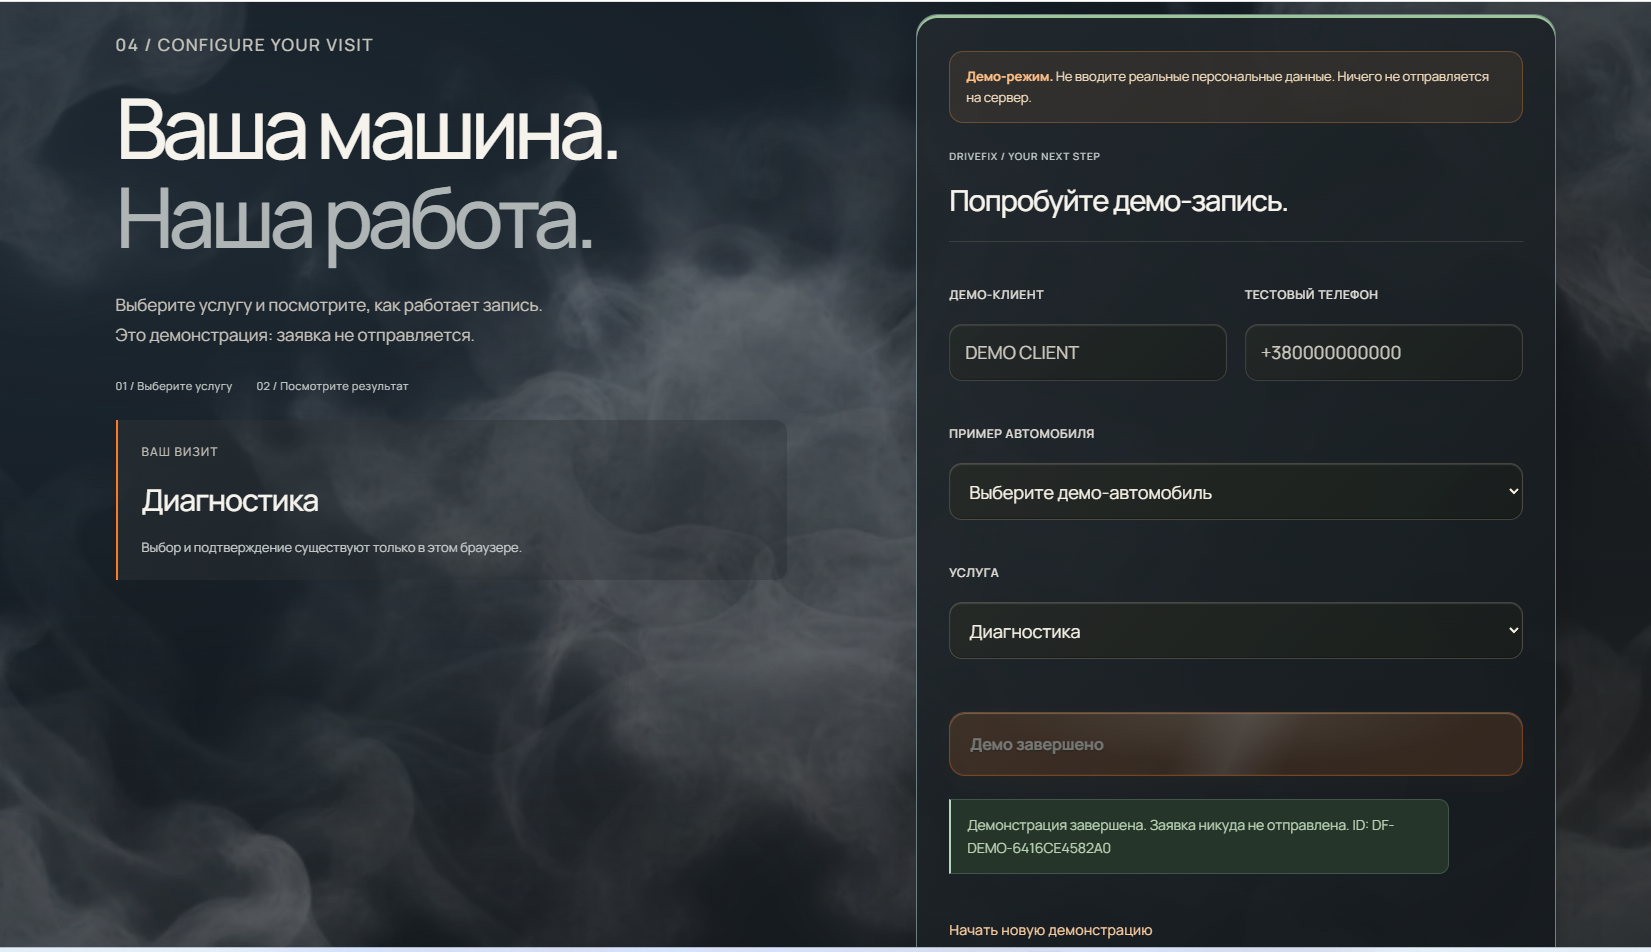
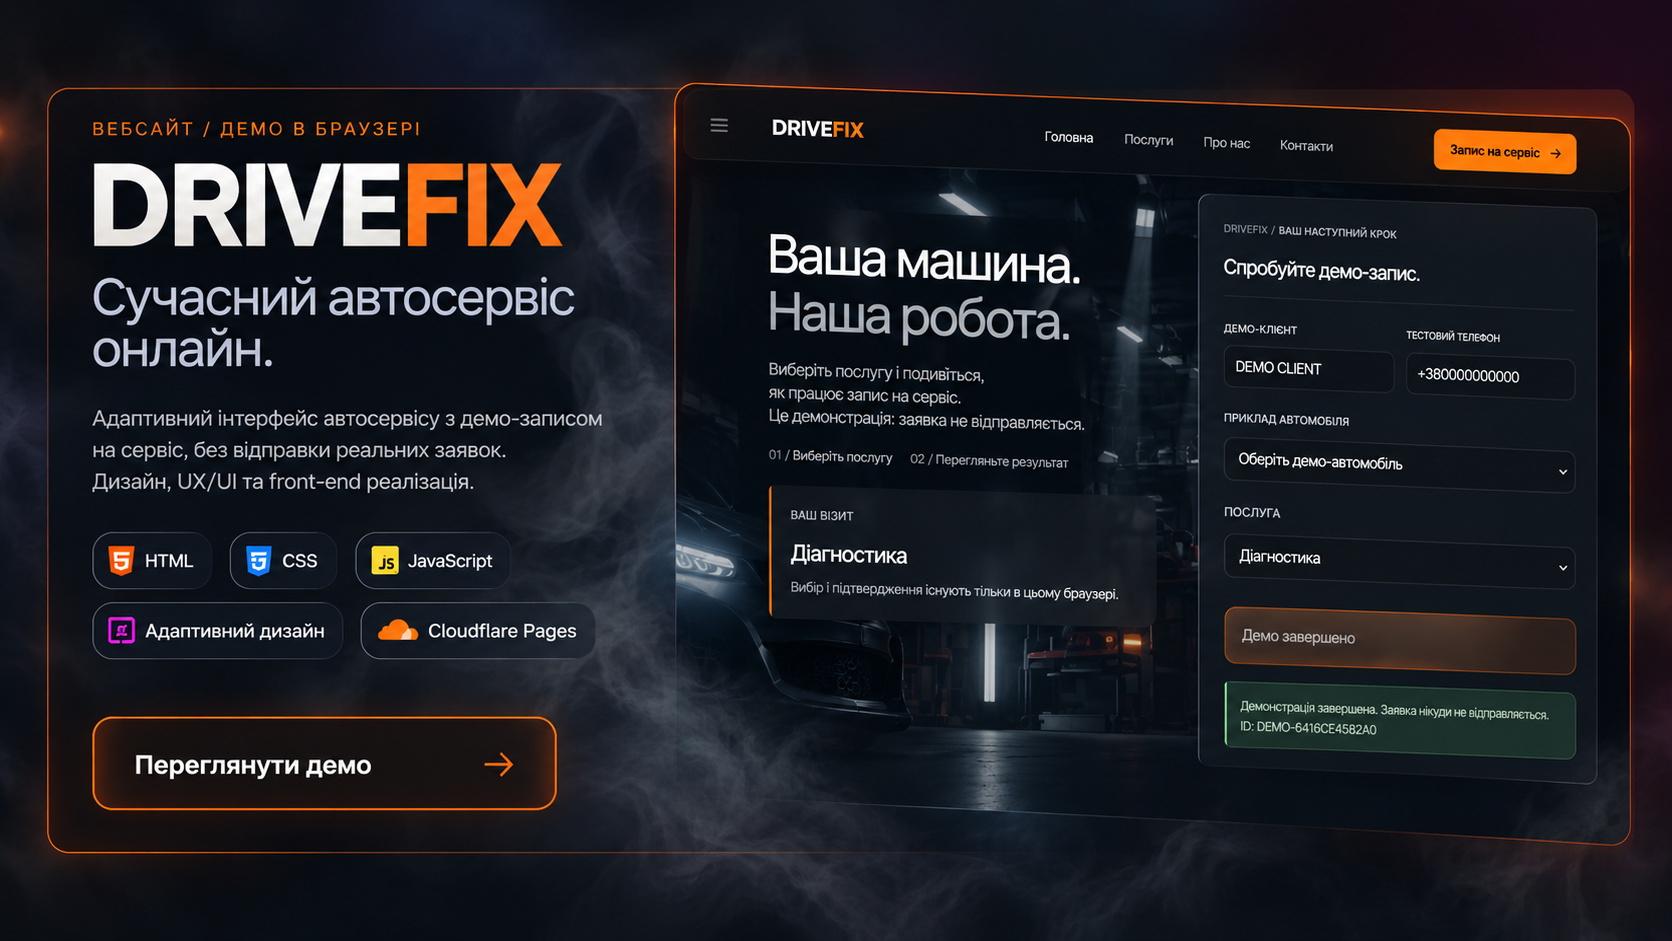
Update DRIVEFIX portfolio preview

diff --git a/index.html b/index.html
@@ -343,7 +343,7 @@
                     </div>
 
                     <img
-                        loading="lazy" decoding="async" src="images/drivefix-redesign.png" width="1651" height="952"
+                        loading="lazy" decoding="async" src="images/drivefix-redesign.png?v=orange-20261018" width="1672" height="941"
                         alt="DRIVEFIX — редизайн і синтетичний демо-запис у браузері" data-i18n-alt="alt.drivefix"
                     >
 
